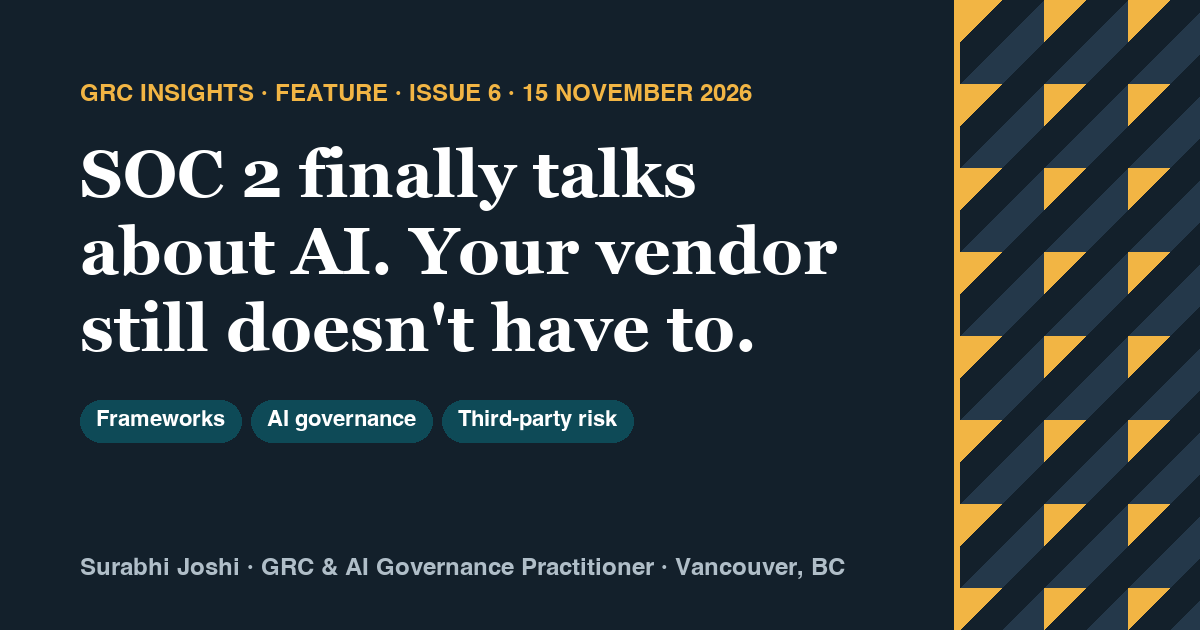
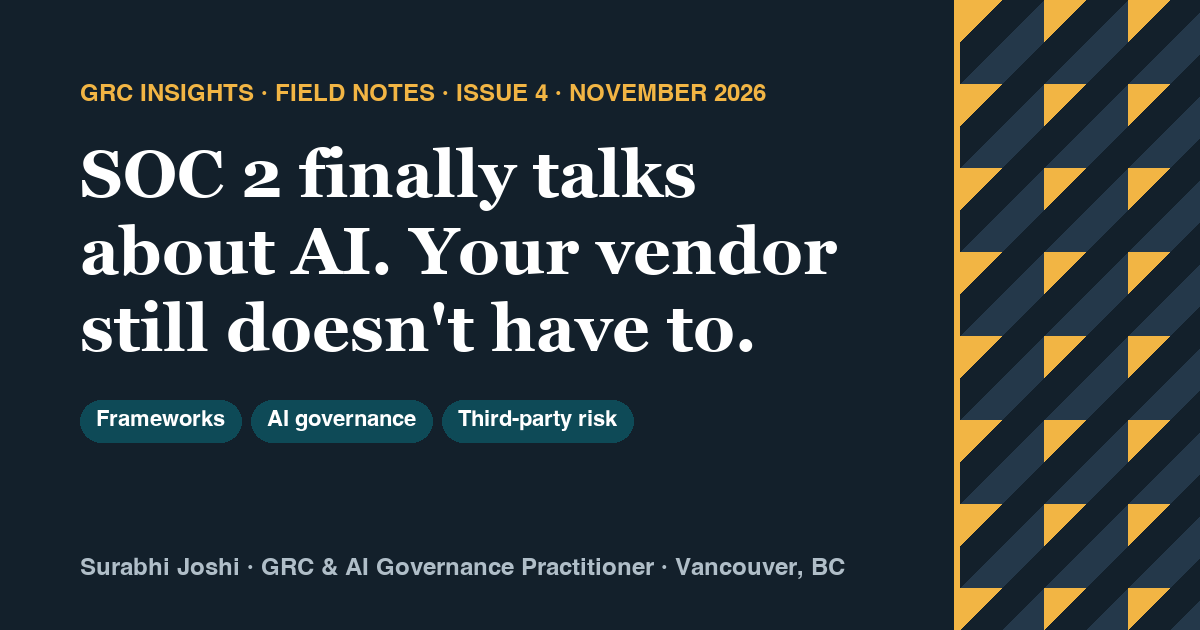
Issue 4 (was 6): renumber; drop '58 pages'; agent PR line as a possibility (#49)

Changed region(s): [[0.2467, 0.1206, 0.6475, 0.181]]

diff --git a/_issues/2026-11-15-soc2-finally-talks-about-ai.md b/_issues/2026-11-15-soc2-finally-talks-about-ai.md
@@ -1,6 +1,6 @@
 ---
 title: "SOC 2 finally talks about AI. Your vendor still doesn't have to."
-issue: 6
+issue: 4
 series: field-notes
 date: 2026-11-09
 regions: [US, GLOBAL]
@@ -23,7 +23,7 @@ A clean SOC 2 report lands in my inbox. Access reviewed. Changes approved. And I
 
 It might be running their support desk. It might be writing the code I'm about to depend on. It might be reading my data inside the product. Those are three different risks, and the report meant to reassure me is silent on all of them.
 
-So when the AICPA, the body behind SOC 2, published its draft 2027 criteria, dated 27 October, I read all 58 pages hoping that silence was over. It is, partly. The draft is late, it is welcome, and it still leaves the question I started with unanswered.
+So when the AICPA, the body behind SOC 2, published its draft 2027 criteria, dated 27 October, I opened it hoping that silence was over. It is, partly. The draft is late, it is welcome, and it still leaves the question I started with unanswered.
 
 ## The people who wrote this have been paying attention
 
@@ -49,7 +49,7 @@ And even this version is more than a year away. If approved, the criteria apply 
 
 Most of the draft's AI language looks at AI in the product, and keeps returning to "AI components of the system". A-LIGN reads two of the new points, on access for AI agents and on unsanctioned AI tools, as applying "[even if AI isn't part of the product](https://www.a-lign.com/articles/proposed-soc-2-trust-services-criteria-updates-what-you-need-to-know)". That is useful, and narrow.
 
-Look at how software gets built now. Coding assistants draft the change, and agents increasingly open the pull request. The draft's change-management section does add AI points, but they cover training data and adversarial inputs. The points on authorising, testing and approving a change do not mention AI at all. Nothing asks who reviewed code a model wrote, what an agent is allowed to merge, or what evidence that review left behind.
+Look at how software gets built now. Coding assistants draft the change, and it is not a stretch to picture an agent opening the pull request too. The draft's change-management section does add AI points, but they cover training data and adversarial inputs. The points on authorising, testing and approving a change do not mention AI at all. Nothing asks who reviewed code a model wrote, what an agent is allowed to merge, or what evidence that review left behind.
 
 The closest it comes is a line about restricting "unilateral code development or configuration and implementation by a single user". It was written with a person in mind. I would like to know what the auditor does when that single user is an agent.
 
